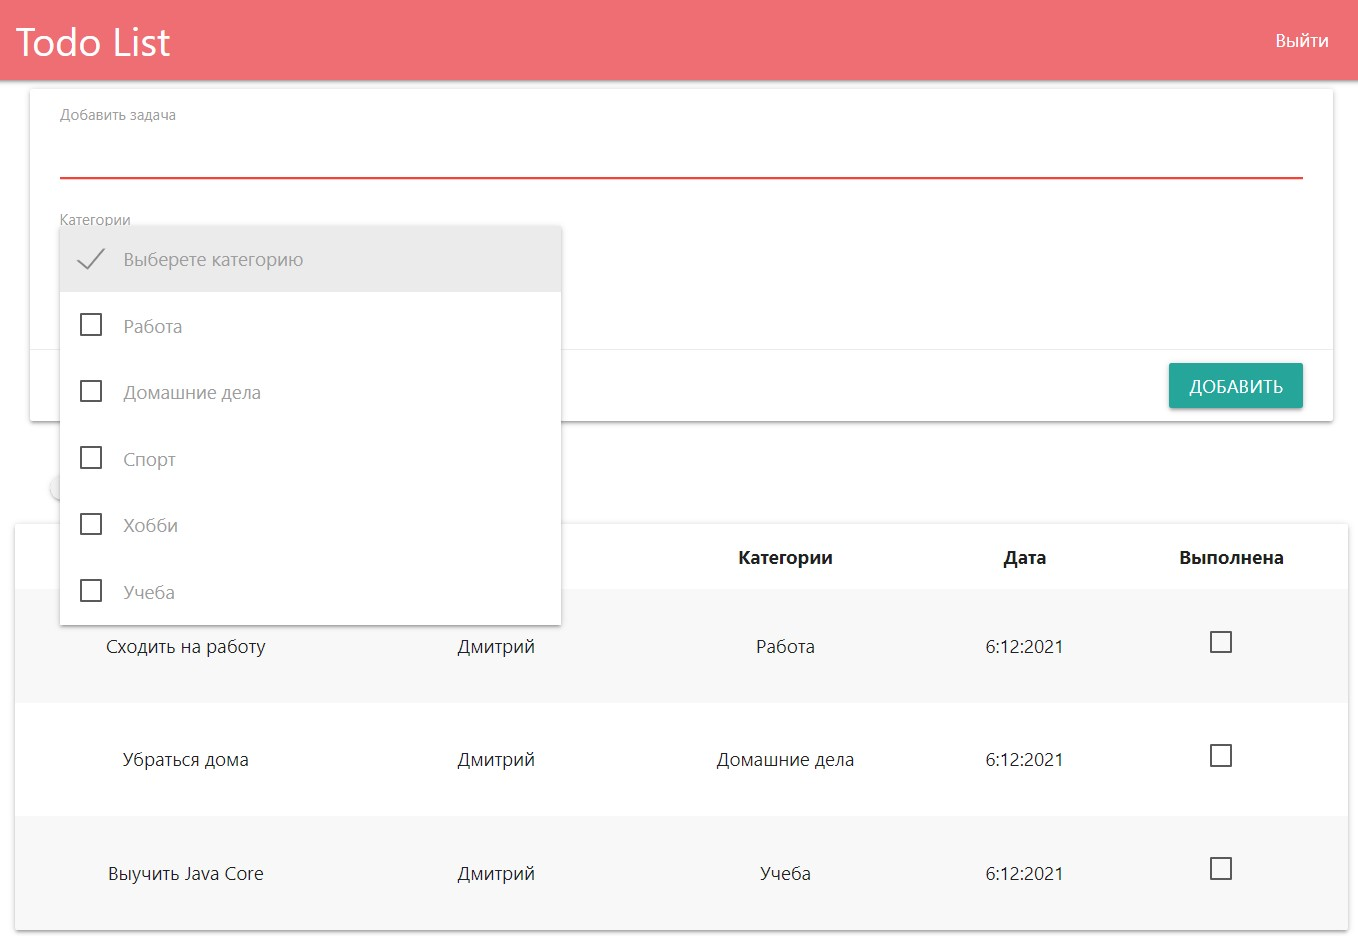
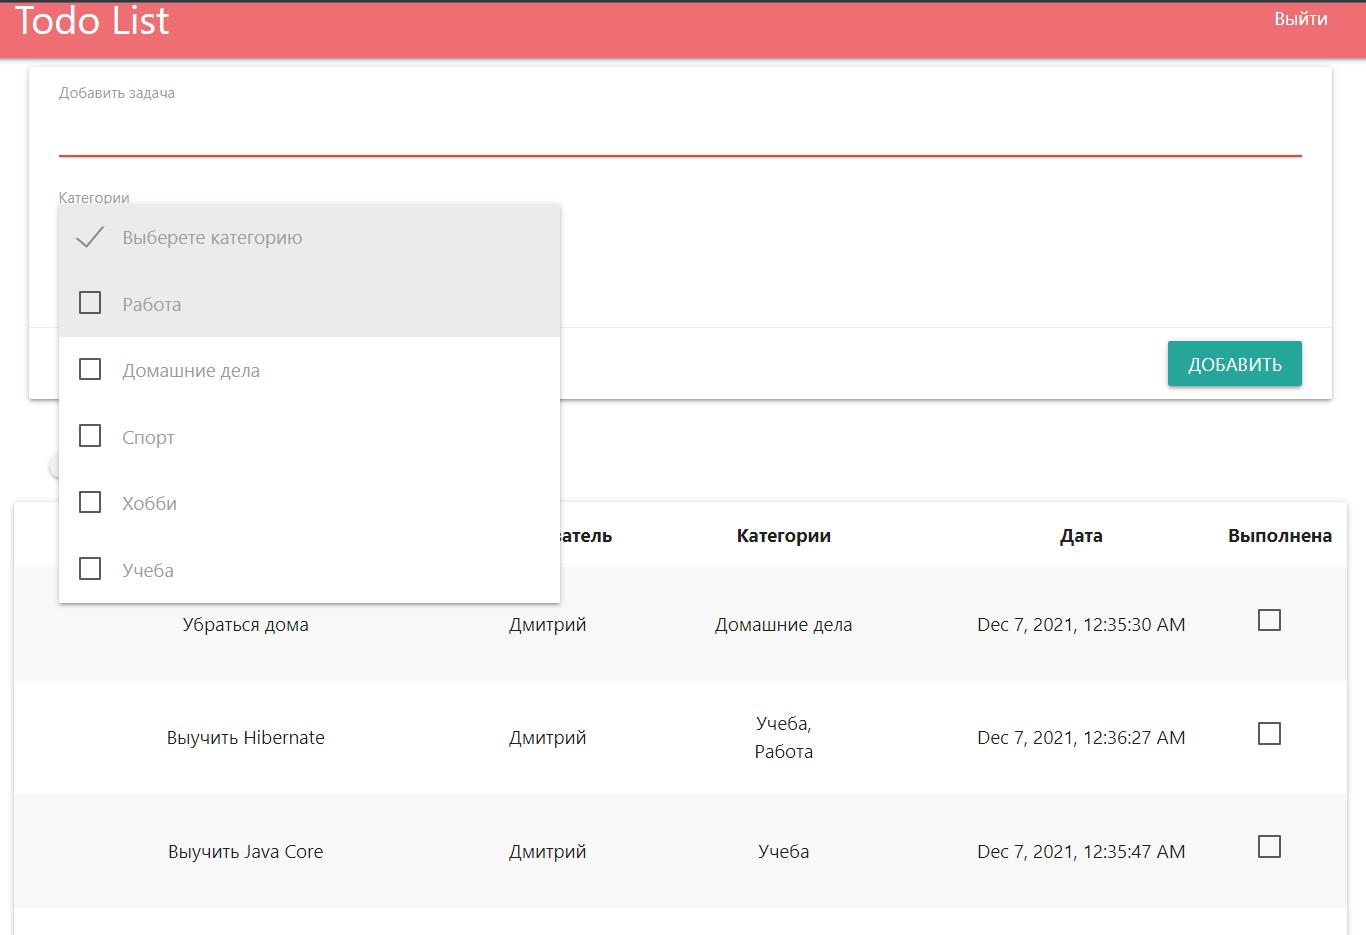
5. Date [#331992]

diff --git a/src/main/webapp/js/index.js b/src/main/webapp/js/index.js
@@ -81,28 +81,29 @@ function parseCategories(data) {
     for (let category of data) {
         arr[i++] = category.name
     }
-    return arr.join(", ");
+    return arr.join(",<br>");
 }
 
 function addTable(data) {
     $('#descTable tbody').empty()
     for (let item of data) {
         $('#descTable tbody:first').append('<tr>'
-             + '<td >' + item.description + '</td>'
+            + '<td >' + item.description + '</td>'
             + '<td >' + item.user.name + '</td>'
             + '<td >' + parseCategories(item.categories) + '</td>'
-            + '<td>' + item.created.day + ':' + item.created.month
-            + ':' + item.created.year + '</td>'
+            + '<td>' + item.created + '</td>'
             + '<td>'
             + ' <p>'
             + ' <label>'
-            + ' <input type="checkbox" id='+item.id
-            +' onclick="update(id)"/>'
+            + ' <input type="checkbox" id=' + item.id
+            + ' onclick="update(id)"/>'
             + ' <span></span>'
             + ' </label>'
             + '</p>'
             + '</td>'
-            + '</tr>');
+            + '</tr>'
+        )
+        ;
         $('#' + item.id).attr('checked', item.done);
     }
 }

diff --git a/src/main/webapp/index.html b/src/main/webapp/index.html
@@ -69,19 +69,17 @@
         <table class="striped centered highlight" id="descTable">
             <thead>
             <tr>
-                <th class="col s2">Задача</th>
-                <th>Пользователь</th>
-                <th class="col s2">Категории</th>
-                <th>Дата</th>
-                <th>Выполнена</th>
+                <th width="35%">Задача</th>
+                <th width="10%">Пользователь</th>
+                <th width="25%">Категории</th>
+                <th width="20%">Дата</th>
+                <th width="10%">Выполнена</th>
             </tr>
             </thead>
             <tbody>
             </tbody>
         </table>
     </div>
-</div>
-
 </div>
 <script src="https://code.jquery.com/jquery-3.4.1.min.js"></script>
 <script src="https://cdnjs.cloudflare.com/ajax/libs/materialize/1.0.0/js/materialize.min.js"></script>

diff --git a/src/main/java/ru/job4j/todo/model/Item.java b/src/main/java/ru/job4j/todo/model/Item.java
@@ -1,13 +1,7 @@
 package ru.job4j.todo.model;
 
-import org.hibernate.annotations.CreationTimestamp;
-
 import javax.persistence.*;
-import java.time.LocalDate;
-import java.util.ArrayList;
-import java.util.List;
-import java.util.Objects;
-import java.util.StringJoiner;
+import java.util.*;
 
 @Entity
 @Table(name = "items")
@@ -17,13 +11,16 @@ public class Item {
     @GeneratedValue(strategy = GenerationType.IDENTITY)
     private int id;
     private String description;
-    @CreationTimestamp
-    private LocalDate created;
+
+    @Temporal(TemporalType.TIMESTAMP)
+    private Date created;
+
     private boolean done;
 
     @ManyToOne(cascade = CascadeType.ALL)
     @JoinColumn(name = "user_id")
     private User user;
+
 
     @ManyToMany(cascade = {CascadeType.PERSIST, CascadeType.MERGE})
     private List<Category> categories = new ArrayList<>();
@@ -32,6 +29,7 @@ public class Item {
         Item item = new Item();
         item.description = description;
         item.user = user;
+        item.created = new Date(System.currentTimeMillis());
         return item;
     }
 
@@ -55,11 +53,11 @@ public class Item {
         this.description = description;
     }
 
-    public LocalDate getCreated() {
+    public Date getCreated() {
         return created;
     }
 
-    public void setCreated(LocalDate created) {
+    public void setCreated(Date created) {
         this.created = created;
     }
 

diff --git a/src/main/java/ru/job4j/todo/store/HBMStore.java b/src/main/java/ru/job4j/todo/store/HBMStore.java
@@ -127,5 +127,6 @@ public class HBMStore implements Store, AutoCloseable {
 
     public static void main(String[] args) {
         Store store = HBMStore.instOf();
+        System.out.println(store.findAllItems());
     }
 }

diff --git a/readme.md b/readme.md
@@ -16,6 +16,8 @@
 ## Главная страница
 
 ![ScreenShot](img/3.jpg "index.html")
+
+
 ![ScreenShot](img/4.jpg "index.html")
 
 
